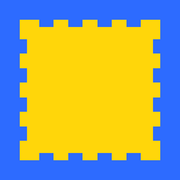
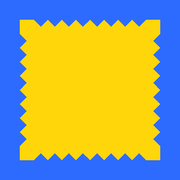
Add files via upload

diff --git a/index.html b/index.html
@@ -60,7 +60,7 @@ button.plain{background:#fff}button.red{background:var(--pink)}
 .dayrow{display:flex;gap:12px;padding:8px 0}
 .dl{width:48px;flex:none;font-weight:700}.dl small{font-weight:400;color:#666}
 .stamps{display:flex;flex-wrap:wrap;gap:8px}
-.stamp,.pv{width:58px;height:70px;padding:7px;background:var(--yel);cursor:pointer;flex:none;clip-path:var(--stamp)}
+.stamp,.pv{width:60px;height:72px;padding:7px;background:var(--yel);cursor:pointer;flex:none;clip-path:var(--stamp)}
 .sw{filter:var(--shadow);flex:none}
 .pv{cursor:default}
 .ph{width:100%;height:100%;background-size:cover;background-position:center;display:flex;align-items:center;justify-content:center;text-align:center;font-size:13px;line-height:1.1}
@@ -142,12 +142,9 @@ const MEDIA_URL='https://media.jjojjolonglong.workers.dev'; // 공용 미디어 
 <script>
 const sb=supabase.createClient(SUPABASE_URL,SUPABASE_ANON_KEY);
 const $=id=>document.getElementById(id);
-function stampPath(W=58,H=70,s=6,d=3,k=8){
-  const ns=L=>{const r=[];for(let x=k;x+s<=L-k+1e-6;x+=2*s)r.push([x,x+s]);return r},X=ns(W),Y=ns(H),P=[[0,0]];
-  X.forEach(([a,b])=>P.push([a,0],[a,d],[b,d],[b,0]));P.push([W,0]);
-  Y.forEach(([a,b])=>P.push([W,a],[W-d,a],[W-d,b],[W,b]));P.push([W,H]);
-  [...X].reverse().forEach(([a,b])=>P.push([b,H],[b,H-d],[a,H-d],[a,H]));P.push([0,H]);
-  [...Y].reverse().forEach(([a,b])=>P.push([0,b],[d,b],[d,a],[0,a]));
+function stampPath(W=60,H=72,p=6,d=3){ // p=톱니 간격, d=톱니 깊이 (W,H는 p의 배수)
+  const E=n=>{const r=[];for(let i=1;i<n;i++){r.push([i*p,0]);if(i<n-1)r.push([i*p+p/2,d])}return r},
+    X=E(Math.round(W/p)),Y=E(Math.round(H/p)),P=[[0,0],...X,[W,0],...Y.map(([t,o])=>[W-o,t]),[W,H],...X.map(([t,o])=>[W-t,H-o]),[0,H],...Y.map(([t,o])=>[o,H-t])];
   return 'polygon('+P.map(([x,y])=>x+'px '+y+'px').join(',')+')';
 }
 document.documentElement.style.setProperty('--stamp',stampPath());

diff --git a/sw.js b/sw.js
@@ -1,4 +1,4 @@
-const V='didi-v2';
+const V='didi-v3';
 const SHELL=['./','index.html','manifest.webmanifest','icons/icon-192.png','icons/icon-512.png'];
 self.addEventListener('install',e=>{e.waitUntil(caches.open(V).then(c=>c.addAll(SHELL)).then(()=>self.skipWaiting()))});
 self.addEventListener('activate',e=>{e.waitUntil(caches.keys().then(k=>Promise.all(k.filter(x=>x!==V).map(x=>caches.delete(x)))).then(()=>self.clients.claim()))});
